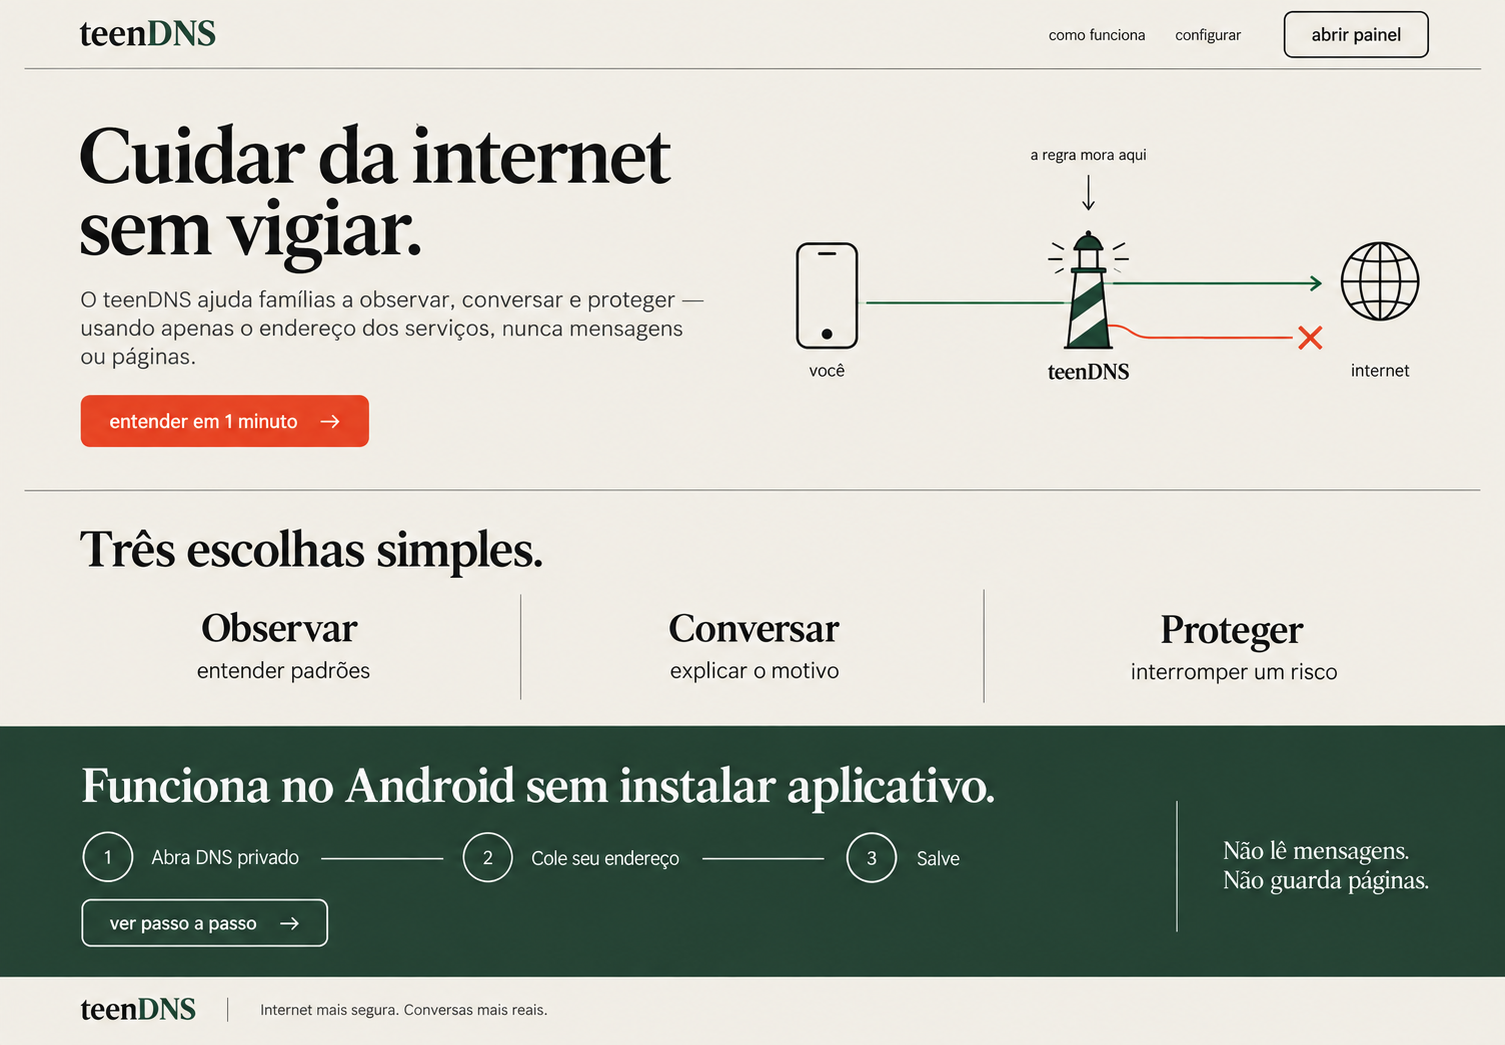
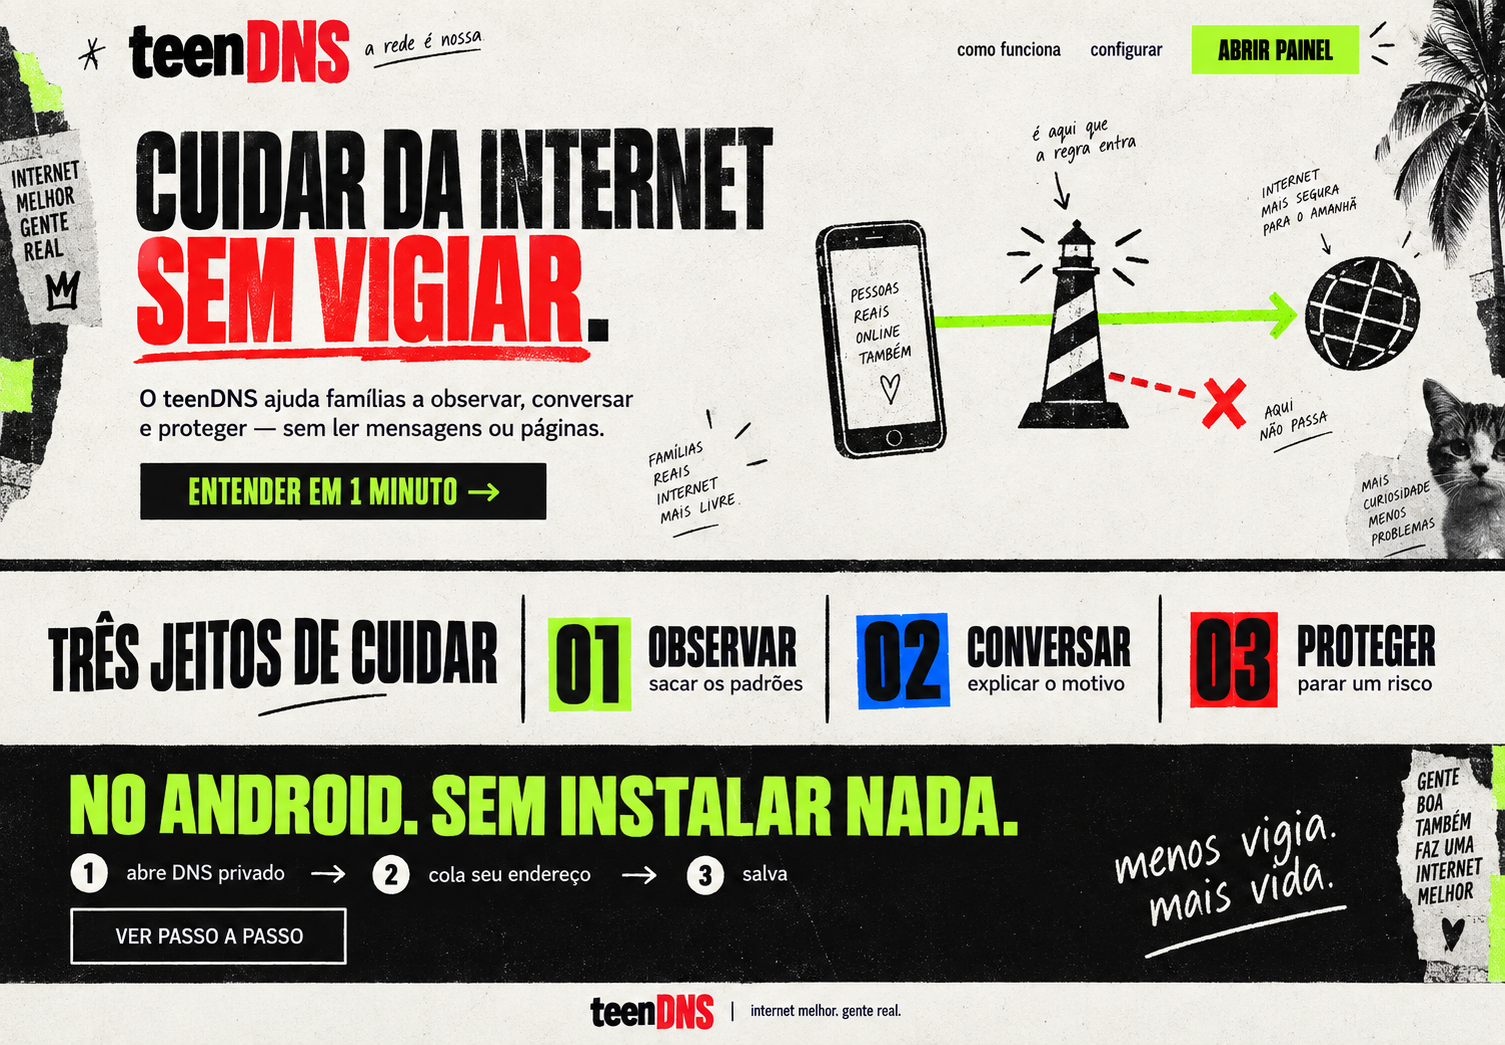
docs: adopt teenDNS zine identity

diff --git a/docs/design-system.md b/docs/design-system.md
@@ -5,9 +5,11 @@ Os conceitos de referência estão em [`design/concepts`](../design/concepts/).
 
 ## Ideia visual
 
-O teenDNS deve parecer uma cartilha editorial calma: claro, direto e humano.
-A primeira camada mostra somente a escolha cotidiana. Explicações, eventos e
-opções técnicas aparecem apenas quando a pessoa pede mais profundidade.
+O teenDNS usa a linguagem de um zine brasileiro sobre internet: direto, jovem,
+um pouco punk e deliberadamente imperfeito. A personalidade aparece na tinta,
+nos recortes e na tipografia; a operação continua simples. A primeira camada
+mostra somente a escolha cotidiana. Explicações, eventos e opções técnicas
+aparecem quando a pessoa pede mais profundidade.
 
 Evitar:
 
@@ -21,39 +23,39 @@ Evitar:
 
 | Token | Valor | Uso |
 | --- | --- | --- |
-| `paper` | `#f3f0e8` | fundo principal, sem alterar a temperatura |
-| `ink` | `#111713` | texto e linhas principais |
-| `forest` | `#0c4a35` | estados permitidos e faixas explicativas |
-| `signal` | `#f04422` | ação principal, bloqueio e numeração |
-| `note` | `#f6dda0` | uma nota educativa pontual |
+| `paper` | `#f2f0e9` | papel cru e fundo principal |
+| `ink` | `#0b0b0a` | texto, regras e grandes massas |
+| `acid` | `#adff19` | seleção, permissão e ações rápidas |
+| `signal` | `#f32b20` | proteção, chamada e sublinhado |
+| `cobalt` | `#1748e8` | observação e contraste pontual |
 | `muted` | `#61665f` | texto secundário |
 | `line` | `#9b9b91` | divisórias finas |
 
 ## Tipografia
 
-- Títulos editoriais: `Source Serif 4`, `Georgia`, serif.
+- Títulos: `Barlow Condensed`, `Impact`, `Arial Narrow`, sans-serif.
 - Interface e texto: `Inter`, `Arial`, sans-serif.
 - Hostnames, rótulos técnicos e notas: `IBM Plex Mono`, `Courier New`, monospace.
 - Controles nunca dependem da tipografia padrão do navegador.
 
 ## Geometria e espaçamento
 
-- Raios entre `0` e `4px`; botões de ação podem ser totalmente retos.
-- Bordas de `1px`, sombras apenas quando representam papel sobre papel.
+- Raios de `0`; recortes e controles são retangulares.
+- Bordas entre `1px` e `5px`; nenhuma sombra macia.
 - Escala de espaço: `4, 8, 12, 16, 24, 32, 48, 72px`.
 - Conteúdo público limitado a `1312px`; painel ocupa a largura disponível.
 - Componentes principais são trilhos, listas abertas, faixas e gavetas.
 
 ## Componentes
 
-- **Marca:** farol geométrico com dois feixes na cor de sinalização.
-- **Botão primário:** fundo `signal`, texto branco, altura mínima de `48px`.
+- **Marca:** wordmark pesado `teenDNS`, com `DNS` em vermelho.
+- **Botão primário:** fundo `ink`, texto `acid`, altura mínima de `48px`.
 - **Botão secundário:** fundo transparente, borda `ink`.
 - **Links:** sublinhado fino, seta SVG quando indicam avanço.
 - **Lista de regras:** nome e ação em linhas abertas; motivo só no segundo nível.
 - **Estado:** ponto preenchido mais texto; não usar selo em formato de pílula.
 - **Gaveta de edição:** painel lateral com borda, motivo obrigatório e ações claras.
-- **Foco:** contorno de `3px` em `note`, com contraste sobre todos os fundos.
+- **Foco:** contorno de `3px` em `cobalt`, com contraste sobre todos os fundos.
 
 ## Movimento
 
@@ -80,12 +82,12 @@ Evitar:
 
 ### Painel
 
-- `teenDNS`, `entenda`, `ajuda`, `funcionando`
+- `teenDNS`, `entenda`, `ajuda`, `tá rodando`
 - `Perfis`, `Casa`, `Estudos`, `+ novo perfil`
-- `Casa`
+- `CASA`
 - `Escolha o que observar e o que proteger.`
 - `DNS privado`, `copiar`
-- `Regras`, `+ adicionar regra`, `Hoje`, `ver detalhes`
+- `REGRAS, POR ENQUANTO`, `+ botar outra regra`, `HOJE`, `ver o rolê`
 
 ## Regra de profundidade
 
